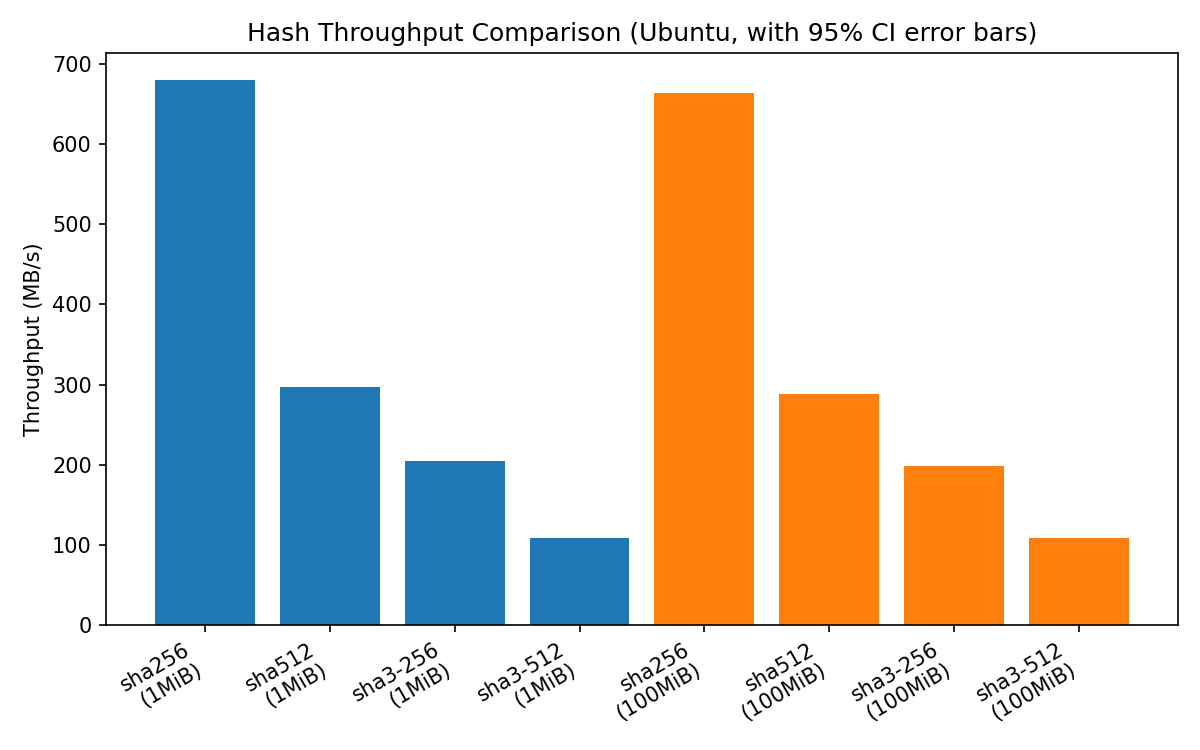
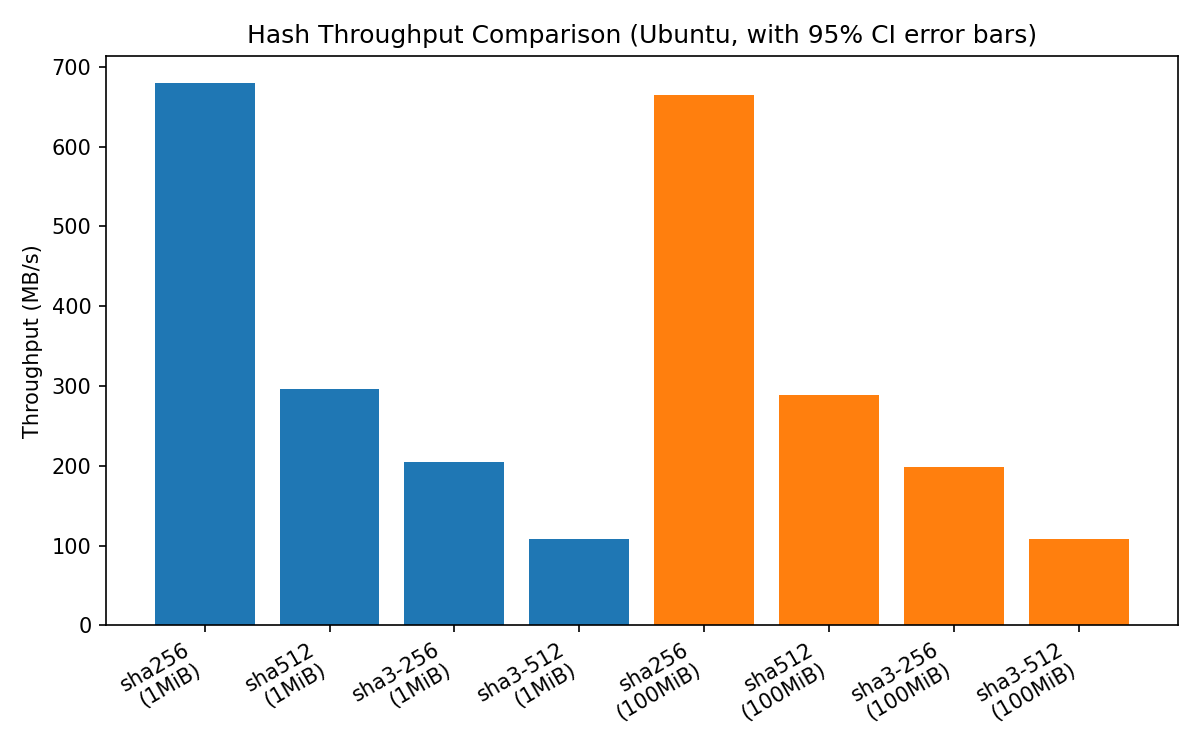
fix

diff --git a/bench/plot_compare_os.py b/bench/plot_compare_os.py
@@ -1,0 +1,35 @@
+import pandas as pd
+import matplotlib.pyplot as plt
+import numpy as np
+
+df_ubuntu = pd.read_csv("bench_results.csv")
+df_ubuntu["os"] = "Ubuntu"
+df_windows = pd.read_csv("bench_results_windows.csv")
+df_windows["os"] = "Windows"
+
+df = pd.concat([df_ubuntu, df_windows], ignore_index=True)
+
+fig, axes = plt.subplots(1, 2, figsize=(13, 5.5), sharey=True)
+
+for ax, size_label in zip(axes, ["1MiB", "100MiB"]):
+    sub = df[df["size_label"] == size_label]
+    algos = sub["algo"].unique()
+    x = np.arange(len(algos))
+    width = 0.35
+
+    ubuntu_vals = [sub[(sub["algo"] == a) & (sub["os"] == "Ubuntu")]["throughput_MBps"].values[0] for a in algos]
+    windows_vals = [sub[(sub["algo"] == a) & (sub["os"] == "Windows")]["throughput_MBps"].values[0] for a in algos]
+
+    ax.bar(x - width/2, ubuntu_vals, width, label="Ubuntu", color="#1f77b4")
+    ax.bar(x + width/2, windows_vals, width, label="Windows", color="#ff7f0e")
+
+    ax.set_xticks(x)
+    ax.set_xticklabels(algos, rotation=20, ha="right")
+    ax.set_title(f"File size: {size_label}")
+    ax.set_ylabel("Throughput (MB/s)")
+    ax.legend()
+
+fig.suptitle("Hash Throughput: Ubuntu vs Windows Comparison", fontsize=14)
+plt.tight_layout()
+plt.savefig("bench/throughput_compare_os.png", dpi=150)
+print("Da luu: bench/throughput_compare_os.png")